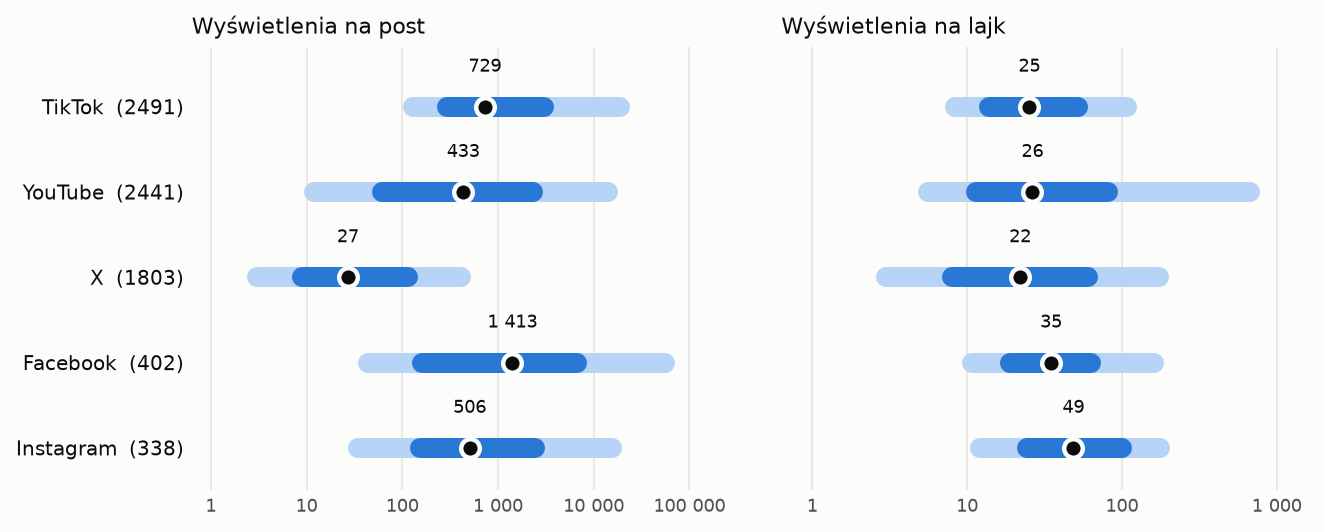
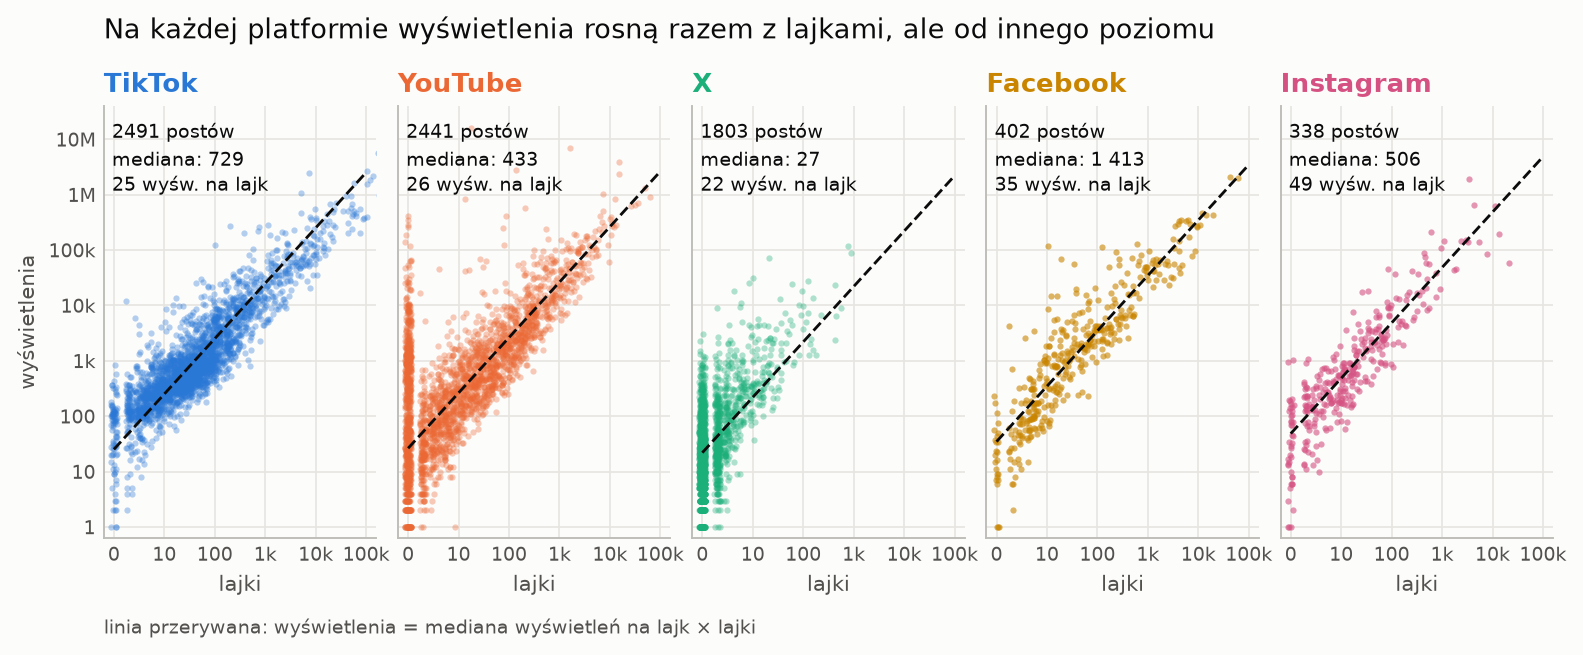
Redraw data overview as views-vs-likes small multiples

diff --git a/src/data_overview.py b/src/data_overview.py
@@ -32,31 +32,37 @@ def table(d, raw):
     return rows
 
 
+COL = {"tiktok": "#2a78d6", "youtube": "#eb6834", "twitter": "#1baf7a", "facebook": "#c98500", "instagram": "#d55181"}
+
+
 def figure(d, rows, lang):
-    T = {"en": ("Views per post", "Views per like", "median", "posts"),
-         "pl": ("Wyświetlenia na post", "Wyświetlenia na lajk", "mediana", "postów")}[lang]
-    fig, ax = plt.subplots(1, 2, figsize=(9, 3.6), sharey=True, gridspec_kw={"wspace": 0.12})
+    T = {"en": ("Views grow with likes on every platform, from a different level on each",
+                "likes", "views", "median", "views per like", "posts", "dashed: views = median views per like × likes"),
+         "pl": ("Na każdej platformie wyświetlenia rosną razem z lajkami, ale od innego poziomu",
+                "lajki", "wyświetlenia", "mediana", "wyśw. na lajk", "postów", "linia przerywana: wyświetlenia = mediana wyświetleń na lajk × lajki")}[lang]
+    fig, ax = plt.subplots(1, len(P), figsize=(11, 3.3), sharex=True, sharey=True, gridspec_kw={"wspace": 0.08})
     fig.patch.set_facecolor(SURF)
-    for k, a in enumerate(ax):
+    rng = np.random.default_rng(0)
+    for a, p in zip(ax, P):
+        s = d[d.platform == p]
+        x = np.log10(np.expm1(s.log_likes.values) + 1) + rng.uniform(-.06, .06, len(s)); y = s.y.values
         a.set_facecolor(SURF)
-        for i, p in enumerate(P):
-            s = d[d.platform == p]
-            v = s.y.values if k == 0 else s.y.values - np.log10(np.maximum(np.expm1(s.log_likes.values), 1))
-            q10, q25, q50, q75, q90 = np.percentile(v, [10, 25, 50, 75, 90])
-            a.plot([q10, q90], [i, i], color=LIGHT, lw=9, solid_capstyle="round", zorder=1)
-            a.plot([q25, q75], [i, i], color=BLUE, lw=9, solid_capstyle="round", zorder=2)
-            a.scatter(q50, i, s=70, color=INK, edgecolor=SURF, linewidth=2, zorder=3)
-            a.text(q50, i - 0.36, f"{10 ** q50:,.0f}".replace(",", " "), ha="center", va="bottom", fontsize=8, color=INK)
-        ticks = range(0, 6) if k == 0 else range(0, 4)
-        a.set_xticks(list(ticks)); a.set_xticklabels([f"{10 ** t:,}".replace(",", " ") for t in ticks], fontsize=8, color=MUTED)
-        a.set_xlim(-0.2, 5.3 if k == 0 else 3.2)
-        a.grid(axis="x", color="#e6e5e0", lw=0.8); a.set_axisbelow(True)
-        a.set_title(T[k], fontsize=10, color=INK, loc="left")
-        [a.spines[x].set_visible(False) for x in a.spines]; a.tick_params(length=0)
-    ax[0].set_yticks(range(len(P)))
-    ax[0].set_yticklabels([f"{LAB[p]}  ({rows[p]['posts with views (used)']})" for p in P], fontsize=9, color=INK)
-    ax[0].set_ylim(len(P) - 0.5, -0.7)
-    fig.savefig(ROOT / "figures" / f"data_overview_{lang}.png", dpi=160, bbox_inches="tight", facecolor=SURF); plt.close(fig)
+        a.scatter(x, y, s=7, color=COL[p], alpha=.35 if len(s) > 1000 else .6, linewidth=0, rasterized=True)
+        k = np.log10(rows[p]["median views per like"]); xx = np.array([0, 5])
+        a.plot(xx, xx + k, color=INK, lw=1.2, ls="--")
+        a.set_title(LAB[p], fontsize=11, color=COL[p], fontweight="bold", loc="left")
+        a.text(0.03, 0.97, f"{len(s)} {T[5]}\n{T[3]}: {rows[p]['median views']:,.0f}\n{rows[p]['median views per like']:.0f} {T[4]}".replace(",", " "),
+               transform=a.transAxes, va="top", fontsize=8, color=INK, linespacing=1.4)
+        a.grid(color="#e6e5e0", lw=.7); a.set_axisbelow(True)
+        [a.spines[q].set_visible(False) for q in ("top", "right")]; [a.spines[q].set_color("#bdbcb6") for q in ("left", "bottom")]
+        a.tick_params(length=0, labelsize=8, colors=MUTED); a.set_xlabel(T[1], fontsize=9, color=MUTED)
+    lab = lambda t: ["1", "10", "100", "1k", "10k", "100k", "1M", "10M"][t]
+    ax[0].set_xticks(range(0, 6)); ax[0].set_xticklabels(["0"] + [lab(t) for t in range(1, 6)])
+    ax[0].set_yticks(range(0, 8)); ax[0].set_yticklabels([lab(t) for t in range(0, 8)])
+    ax[0].set_xlim(-.2, 5.2); ax[0].set_ylim(-.2, 7.6); ax[0].set_ylabel(T[2], fontsize=9, color=MUTED)
+    fig.suptitle(T[0], fontsize=11.5, x=.125, ha="left", y=1.04, color=INK)
+    fig.text(.125, -.06, T[6], fontsize=8, color=MUTED)
+    fig.savefig(ROOT / "figures" / f"data_overview_{lang}.png", dpi=170, bbox_inches="tight", facecolor=SURF); plt.close(fig)
     if lang == "pl":
         out = ROOT / "docs/pl/figures"; out.mkdir(exist_ok=True)
         (out / "data_overview_pl.png").write_bytes((ROOT / "figures/data_overview_pl.png").read_bytes())

diff --git a/docs/pl/preprint_draft_intro.md b/docs/pl/preprint_draft_intro.md
@@ -77,9 +77,9 @@ na jeden lajk różni się mniej: od 22 na X do 49 na Instagramie.
 
 ![Rysunek 1](figures/data_overview_pl.png)
 
-**Rysunek 1.** Lewo: wyświetlenia na post, prawo: wyświetlenia na lajk (skala logarytmiczna). Kropka = mediana,
-ciemny pasek = połowa środkowych postów (25–75%), jasny pasek = 80% postów (10–90%). TikTok, YouTube i X: eksport
-Brand24; Facebook i Instagram: nasz odczyt.
+**Rysunek 1.** Wyświetlenia a lajki dla każdego posta, osobno dla każdej platformy (obie osie w skali logarytmicznej).
+Linia przerywana: wyświetlenia = mediana wyświetleń na lajk × lajki. Posty bez lajków leżą przy zerze na osi poziomej.
+TikTok, YouTube i X: eksport Brand24; Facebook i Instagram: nasz odczyt.
 
 Wszystkie modele oceniamy na markach, których nie widziały w treningu (5-krotna walidacja krzyżowa z podziałem po
 markach). Zasady zbierania danych, zgodność z regulaminami i RODO opisujemy w oświadczeniu o danych.
